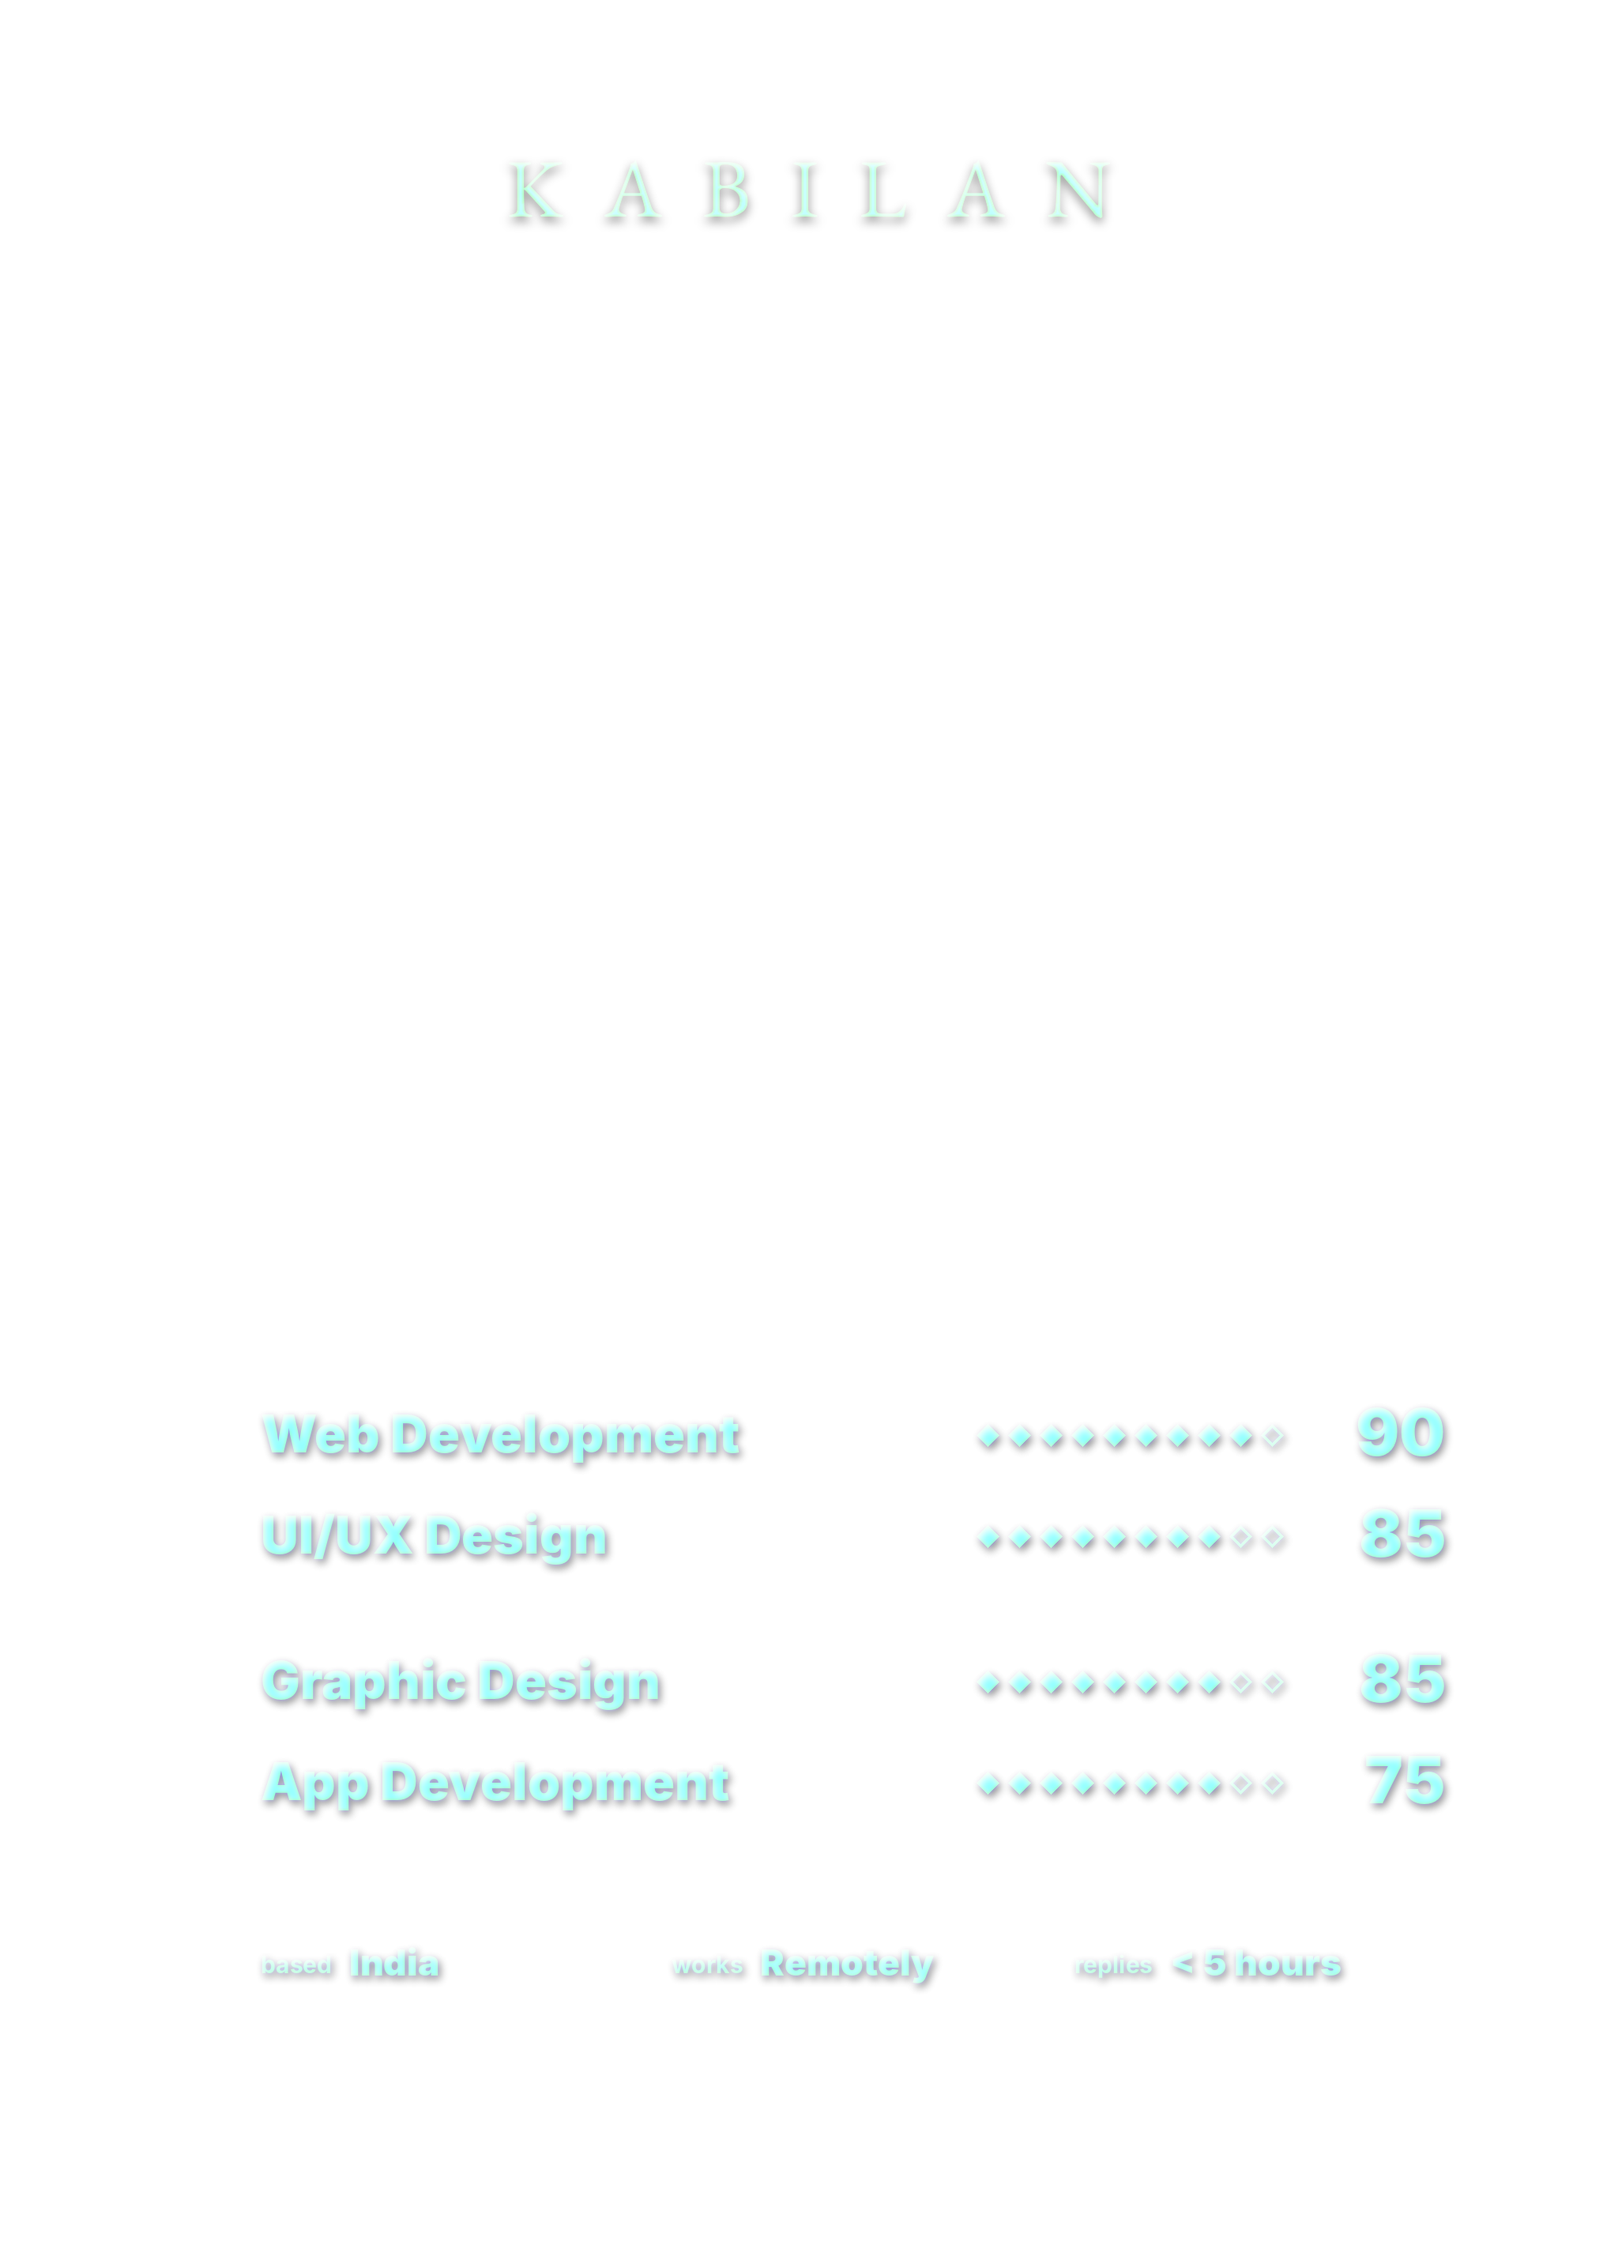
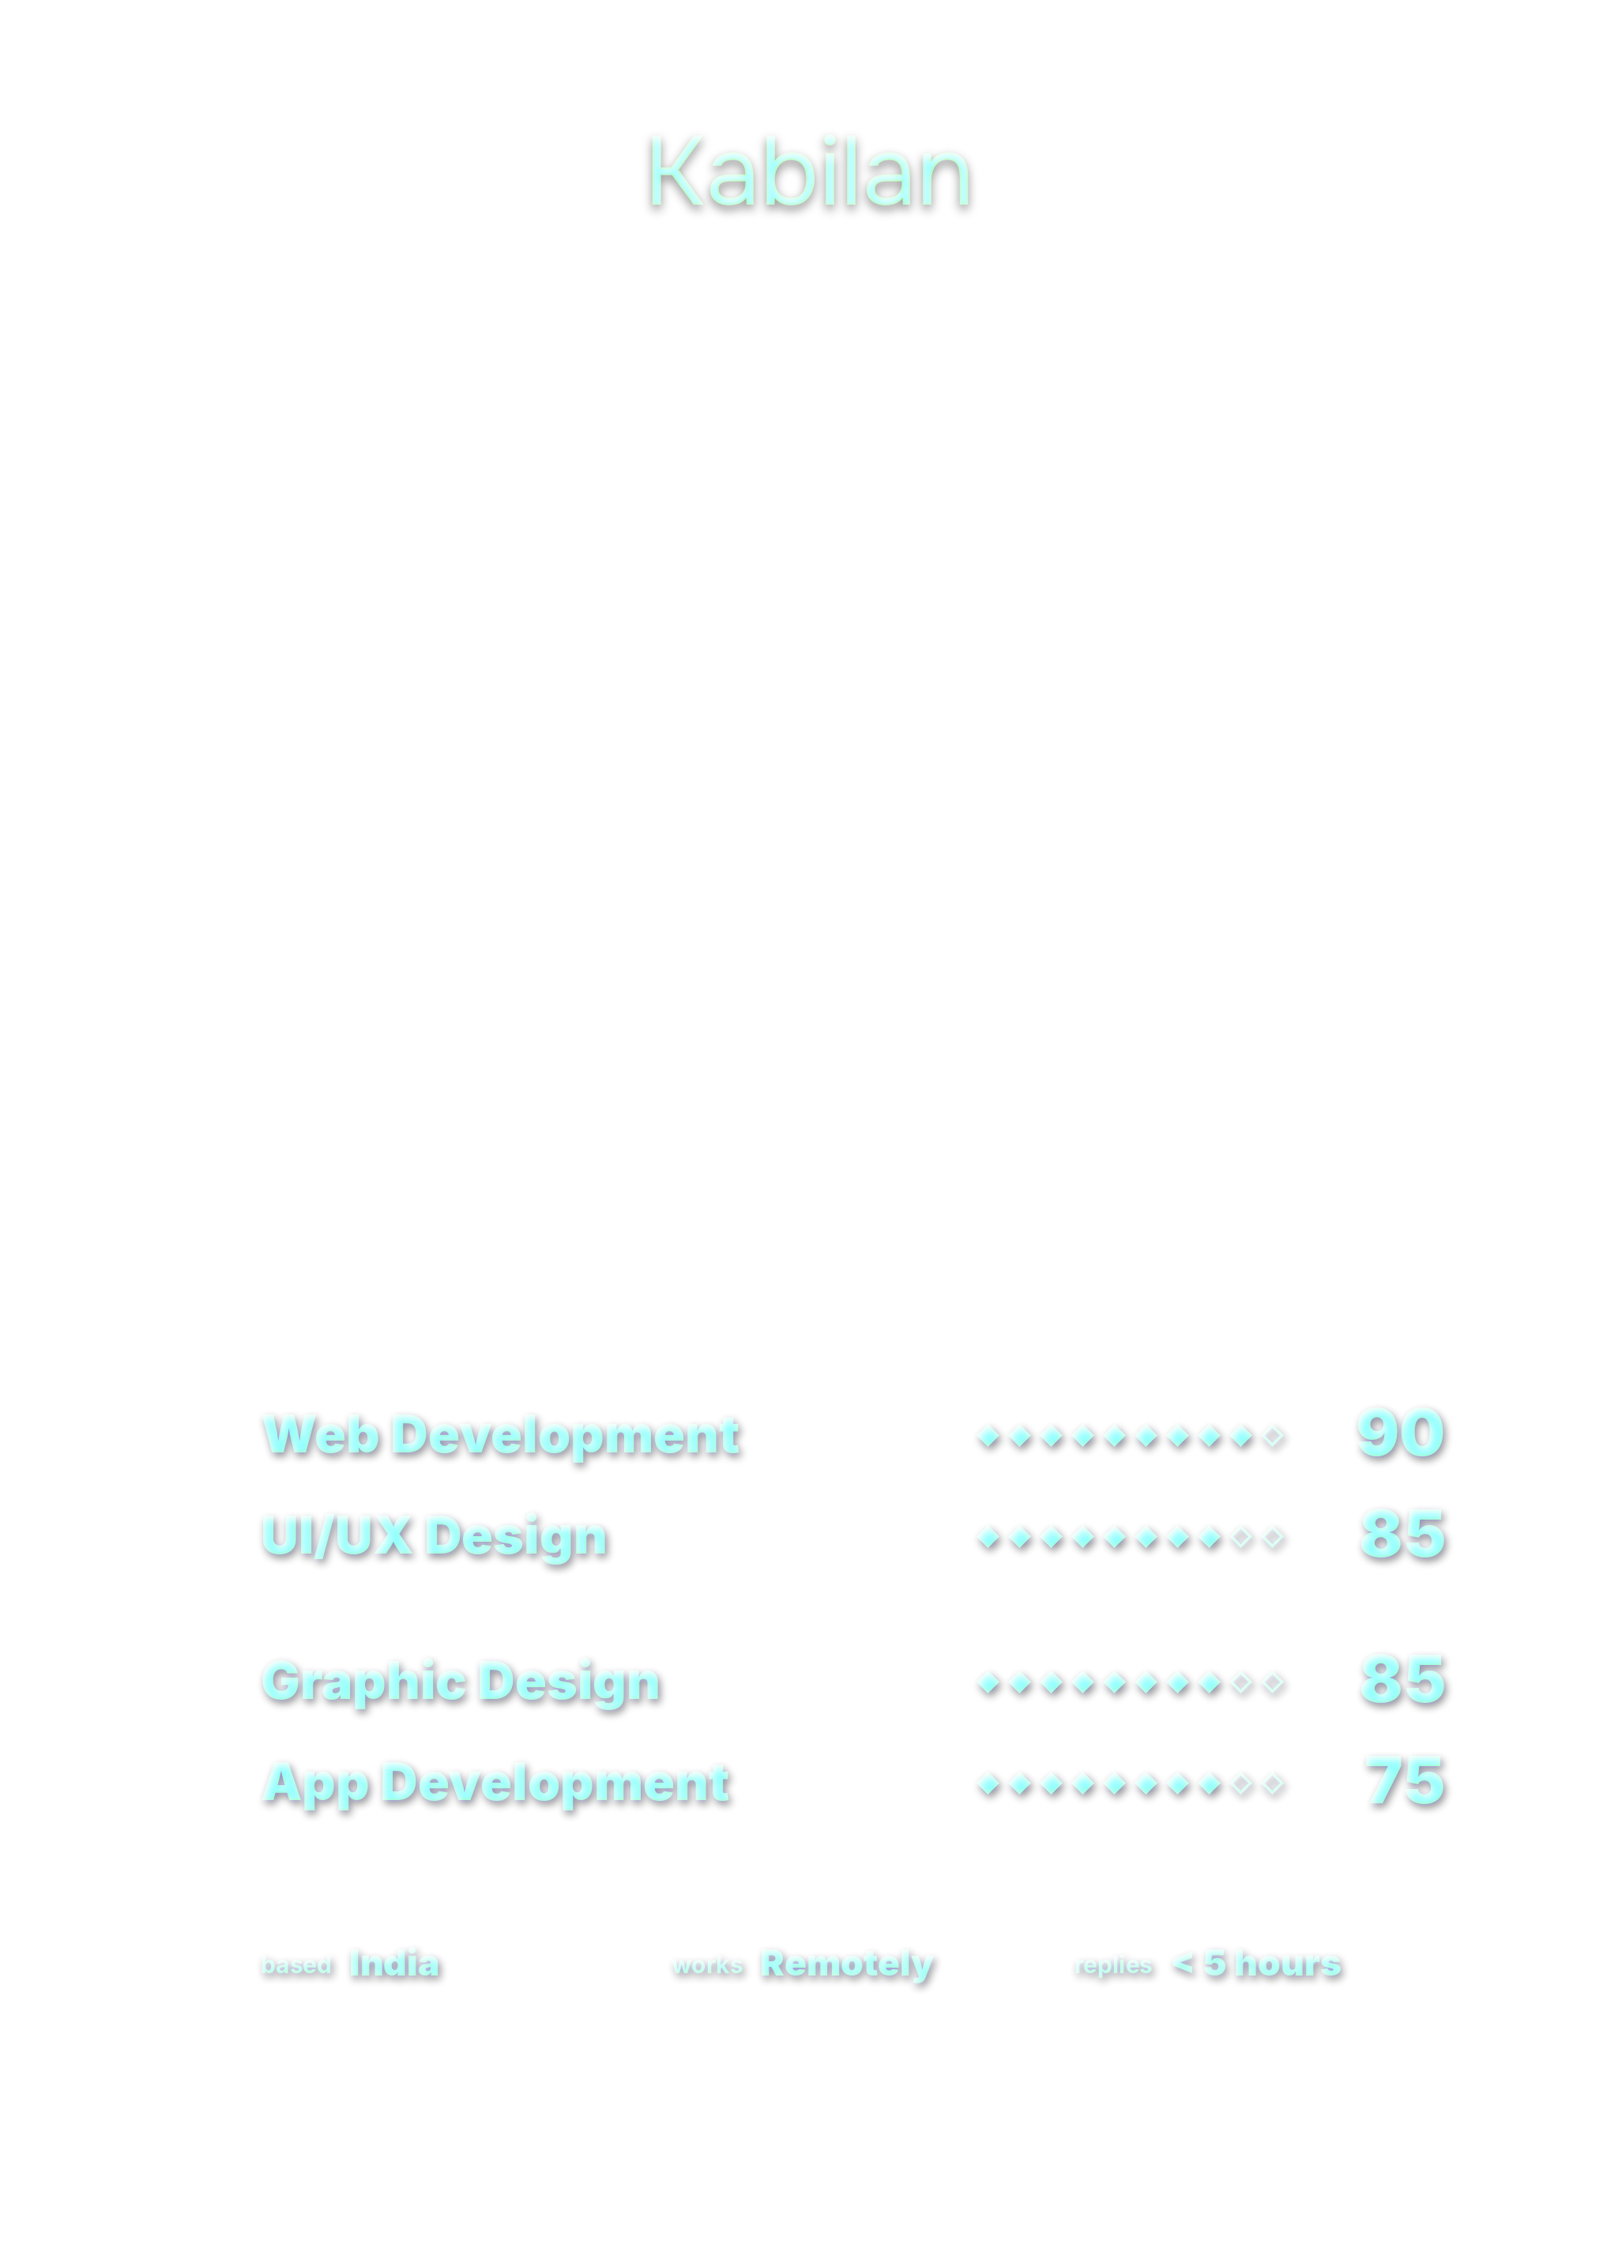
fix(card): set exact title-case Kabilan typography matching original card style and unify root absolute iframe route

Changed region(s): [[0.375, 0.0622, 0.6875, 0.1245], [0.3125, 0.0622, 0.3438, 0.1245]]

diff --git a/home/index.html b/home/index.html
@@ -2634,7 +2634,7 @@ setTimeout(() => {
 (() => {
   const layer = $('#holo'), open = $('#holoOpen'), fig = $('#fig');
   if (!layer || !open) return;
-  const SRC = '../ability-card/';
+  const SRC = '/ability-card/';
   const ld = $('#holoLd'), pct = $('#holoPct'), lite = $('#holoLite'), hc = $('#hc');
   const n = navigator;
   // the ThreeUI card is the card, on every device. It may take a moment to load, and it is allowed to.

diff --git a/index.html b/index.html
@@ -2634,7 +2634,7 @@ setTimeout(() => {
 (() => {
   const layer = $('#holo'), open = $('#holoOpen'), fig = $('#fig');
   if (!layer || !open) return;
-  const SRC = 'ability-card/';
+  const SRC = '/ability-card/';
   const ld = $('#holoLd'), pct = $('#holoPct'), lite = $('#holoLite'), hc = $('#hc');
   const n = navigator;
   // the ThreeUI card is the card, on every device. It may take a moment to load, and it is allowed to.
